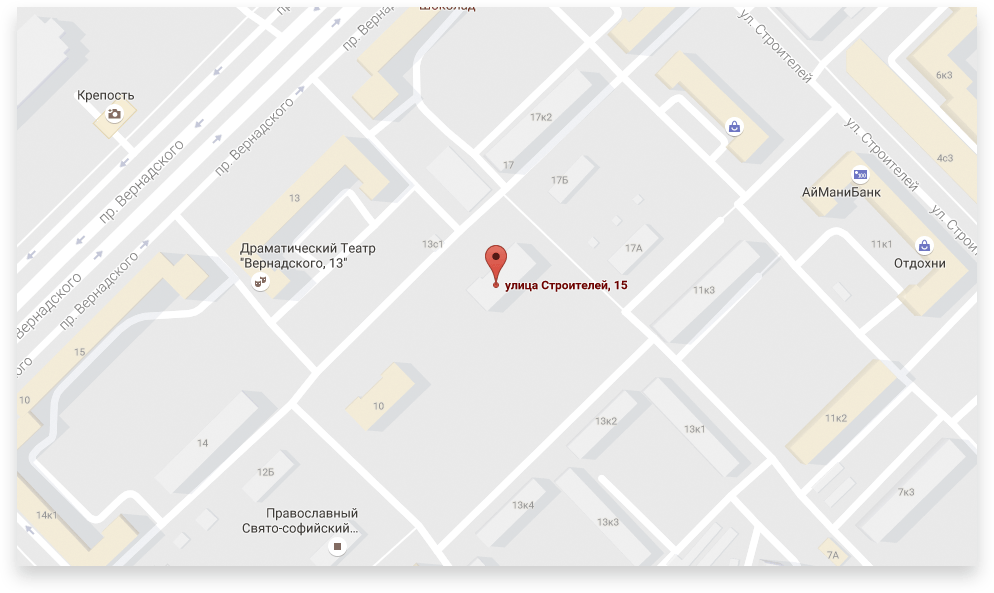
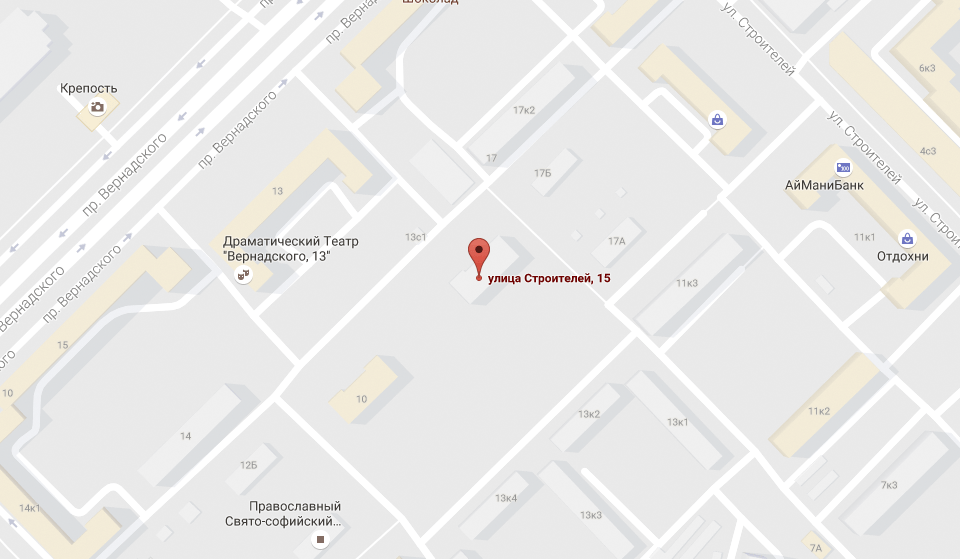
подправила html

diff --git a/index.html b/index.html
@@ -195,46 +195,47 @@
   </div>
   <div class="container">
     <section class="catalog">
-        <ul class="catalog-list">
-          <li class="catalog-item">
-            <a href="virtual-reality.html">
-              <div class="picture-item">
-                <img src="img/popular-1.svg" width="97" height="55" alt="Виртуальная реальность">
-              </div>
-              <strong class="item-title">Виртуальная реальность</strong>
+      <h2 class="visually-hidden">Товары</h2>
+      <ul class="catalog-list">
+        <li class="catalog-item">
+          <a href="virtual-reality.html">
+            <div class="picture-item">
+              <img src="img/popular-1.svg" width="97" height="55" alt="Виртуальная реальность">
+            </div>
+            <strong class="item-title">Виртуальная реальность</strong>
+          </a>
+        </li>
+        <li class="catalog-item">
+          <a href="catalog.html">
+            <div class="picture-item item-bottom">
+              <img src="img/popular-2.svg" width="86" height="117" alt="Моноподы для селфи">
+            </div>
+            <strong class="item-title">Моноподы для селфи</strong>
+          </a>
+        </li>
+        <li class="catalog-item">
+          <a href="action-cameras.html">
+            <div class="picture-item">
+              <img src="img/popular-3.svg" width="71" height="87" alt="Экшн-камеры">
+            </div>
+              <strong class="item-title">Экшн-камеры</strong>
             </a>
-          </li>
-          <li class="catalog-item">
-            <a href="catalog.html">
-              <div class="picture-item item-bottom">
-                <img src="img/popular-2.svg" width="86" height="117" alt="Моноподы для селфи">
-              </div>
-              <strong class="item-title">Моноподы для селфи</strong>
-            </a>
-          </li>
-          <li class="catalog-item">
-            <a href="action-cameras.html">
-              <div class="picture-item">
-                <img src="img/popular-3.svg" width="71" height="87" alt="Экшн-камеры">
-              </div>
-                <strong class="item-title">Экшн-камеры</strong>
-              </a>
-          </li>
-          <li class="catalog-item">
-            <a href="fitness-bracelets.html">
-              <div class="picture-item">
-                <img src="img/popular-4.svg" width="107" height="65" alt="Фитнес-браслеты">
-              </div>
-              <strong class="item-title">Фитнес-браслеты</strong>
-            </a>
-          </li>
-          <li class="catalog-item">
-            <a href="smart-watches.html">
-              <div class="picture-item">
-                <img src="img/popular-5.svg" width="56" height="98" alt="Умные часы">
-              </div>
-              <strong class="item-title">Умные часы</strong>
-            </a>
+        </li>
+        <li class="catalog-item">
+          <a href="fitness-bracelets.html">
+            <div class="picture-item">
+              <img src="img/popular-4.svg" width="107" height="65" alt="Фитнес-браслеты">
+            </div>
+            <strong class="item-title">Фитнес-браслеты</strong>
+          </a>
+        </li>
+        <li class="catalog-item">
+          <a href="smart-watches.html">
+            <div class="picture-item">
+              <img src="img/popular-5.svg" width="56" height="98" alt="Умные часы">
+            </div>
+            <strong class="item-title">Умные часы</strong>
+          </a>
         </li>
         <li class="catalog-item">
           <a href="quadcopters.html">
@@ -327,7 +328,7 @@
         <h3 class="info-title">Контакты</h3>
         <p class="info-text">Вы можете забрать товар сами, заехав в наш офис. Заодно, вы сможете проверить работоспособность покупки. Всякое бывает.</p>
         <a class="info-map" href="https://yandex.ua/maps">
-          <img src="img/map.jpg" width="560" height="222"
+          <img src="img/map.png" width="560" height="222"
           alt="Наш адрес: улица Строителей, 15">
         </a>
         <a class="btn btn-company write-us" href="feedback-page.html">Напишите нам</a>
@@ -444,4 +445,3 @@
   </script>
  </body>
 </html>
-

diff --git a/css/style.css b/css/style.css
@@ -1409,8 +1409,8 @@ input[type="radio"].visually-hidden {
 }
 
 .catalog-item:nth-of-type(4) img {
-	margin-top: 7px;
-  margin-left: 10px;
+	margin-top: 6px;
+  margin-left: 9px;
 }
 
 .catalog-item:nth-of-type(5) img {
@@ -1423,12 +1423,9 @@ input[type="radio"].visually-hidden {
   margin-top: 10px;
 }
 
-.picture-item img {
-	margin-left: 5px;
-}
-
 .item-bottom img {
   align-self: flex-end;
+  margin-left: 3px;
 }
 
 .picture-item:hover {
@@ -1497,7 +1494,6 @@ input[type="radio"].visually-hidden {
 	z-index: 1;
   width: 160px;
   margin-bottom: 23px;
-  padding-left: 15px;
   letter-spacing: 4px;
 }
 
@@ -1557,7 +1553,7 @@ input[type="radio"].visually-hidden {
 #services-1:checked ~ .services-slider-switches .services-switch:nth-child(1) {
 	width: 278px;
   padding: 8px 0px;
-  padding-left: 21px;
+  padding-left: 17px;
   text-align: left;
   color: #f7e184;
   background-image: none;
@@ -2060,13 +2056,13 @@ input[type="radio"].visually-hidden {
 	width: 960px;
 	margin-left: -480px;
 	margin-top: -260px;
-	padding: 94px 100px;
+	padding: 76px 100px;
 	box-shadow: 0 20px 40px rgba(4, 6, 6, 0.75);
 }
 
 .modal-close {
 	position: absolute;
-	top: 19px;
+	top: 20px;
   right: 21px;
 	width: 55px;
 	height: 55px;
@@ -2119,13 +2115,14 @@ input[type="radio"].visually-hidden {
 .feedback-item {
   display: flex;
   flex-direction: column;
-	margin: 0;
-	margin-bottom: 37px;
+  margin: 0;
+  margin-bottom: 37px;
+  margin-top: 18px;
 }
 
 .feedback-item:last-of-type {
 	margin: 0;
-  margin-bottom: 41px;
+  margin-bottom: 39px;
 }
 
 .modal-feedback label {
@@ -2151,7 +2148,7 @@ input[type="radio"].visually-hidden {
 
 .modal-feedback textarea {
 	width: 760px;
-	min-height: 155px;
+	min-height: 157px;
 }
 
 .modal-feedback input[type="text"] {

diff --git a/catalog.html b/catalog.html
@@ -358,7 +358,7 @@
         </a>
       </div>
     </div>
-    </div>
-  </footer>
+  </div>
+</footer>
 </body>
 </html>
